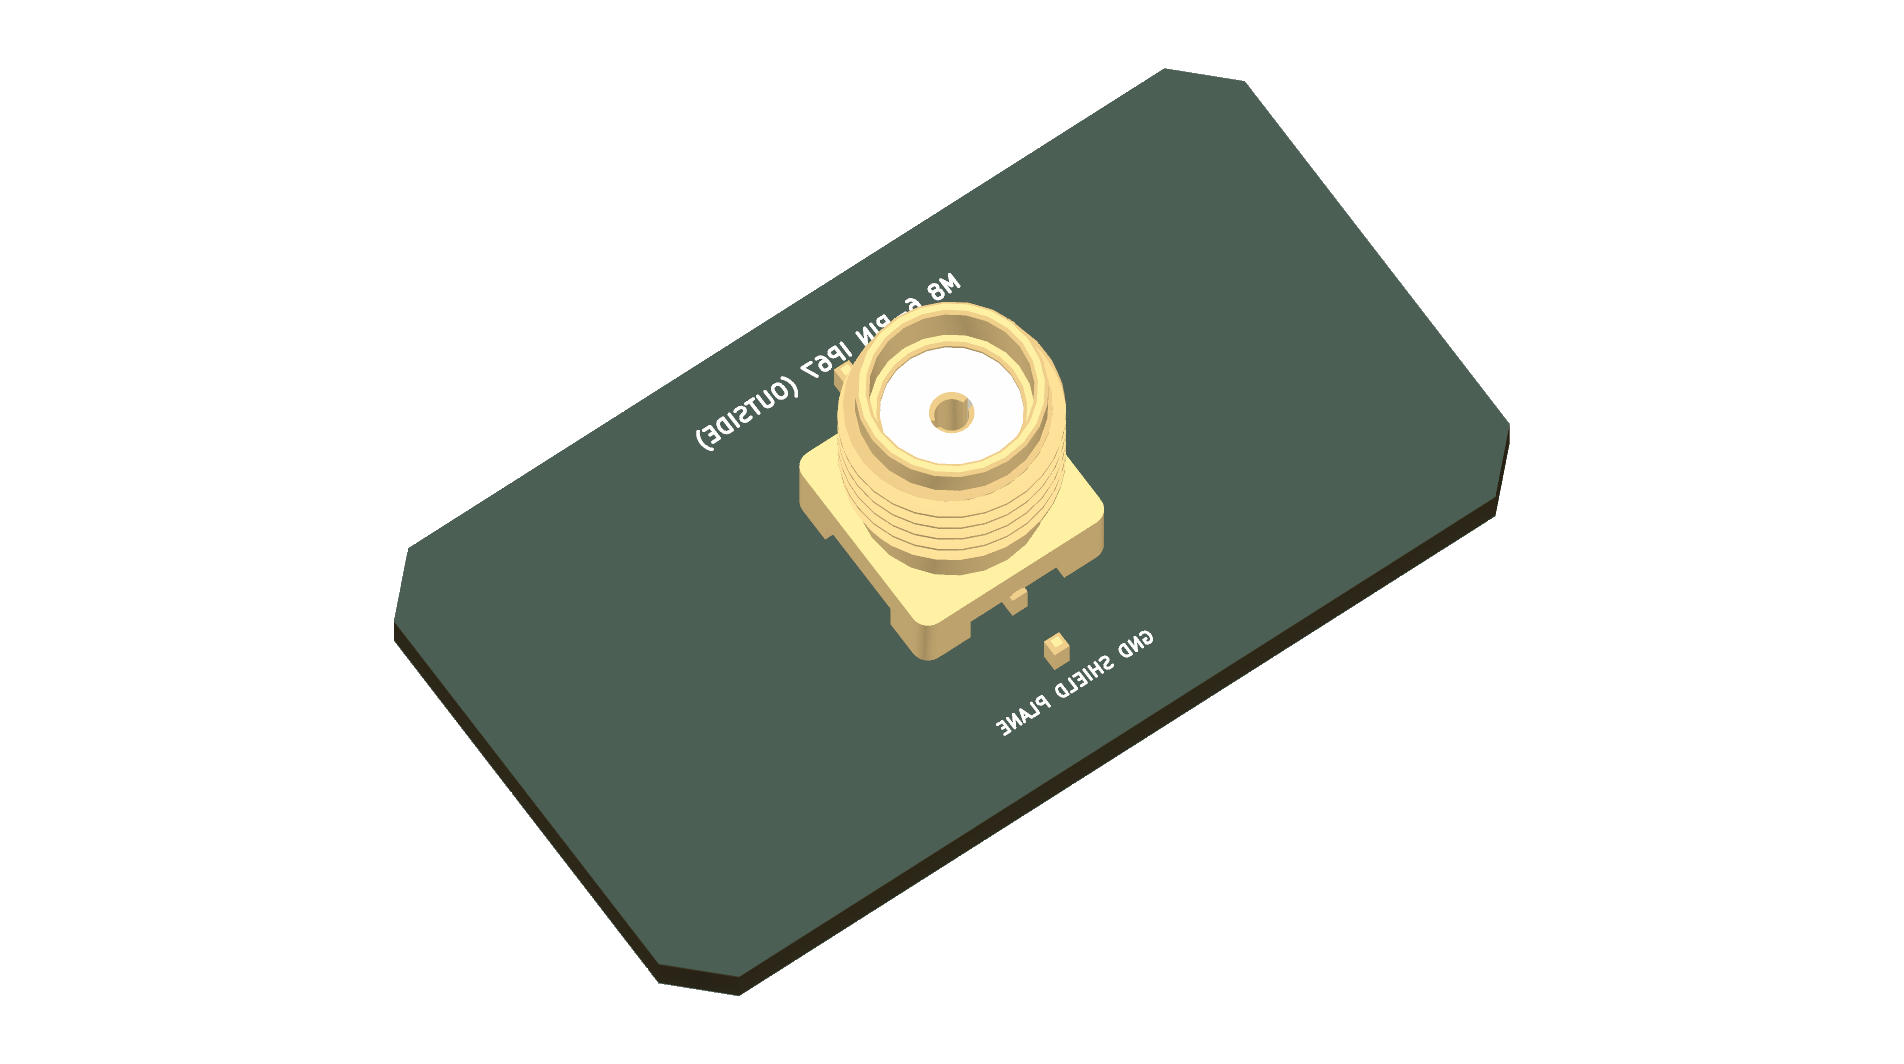
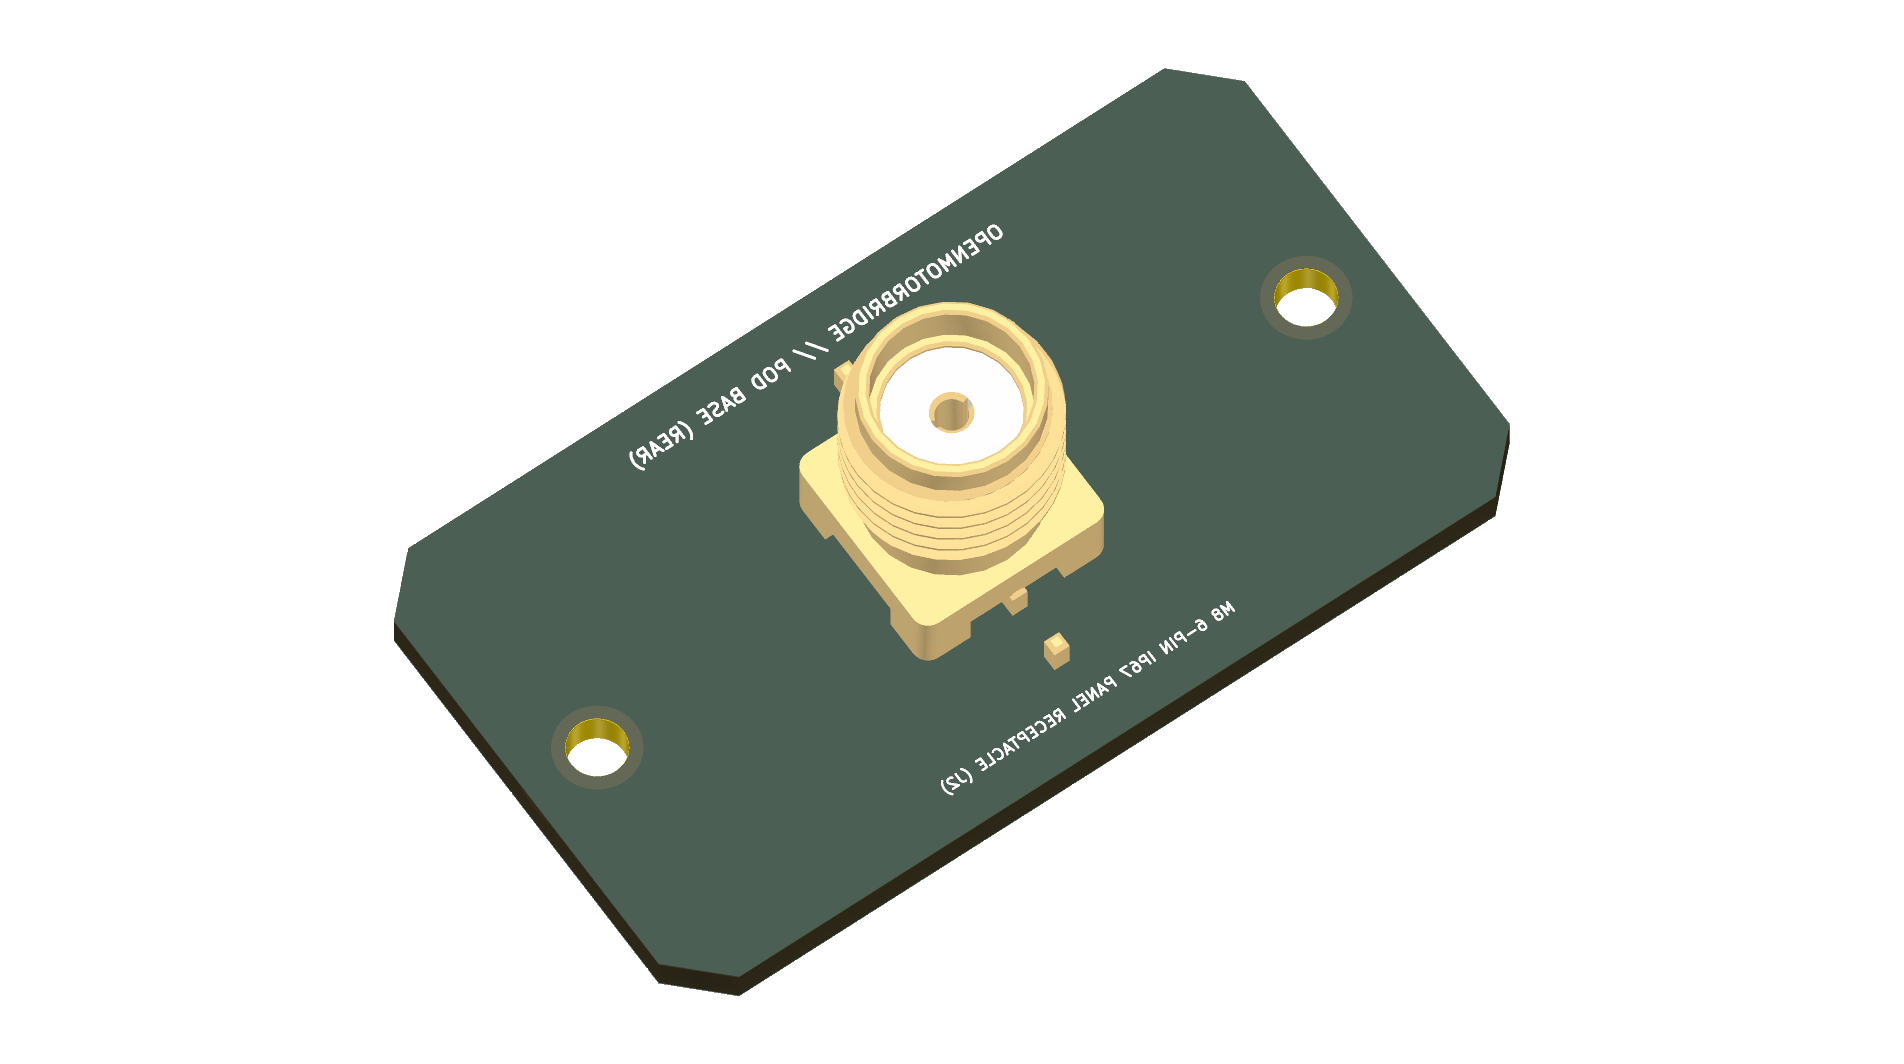
hardware(pod_base): update mounting hole drill pads and clear silkscreen annotations

diff --git a/hardware/scripts/autoplace_pod_base.py b/hardware/scripts/autoplace_pod_base.py
@@ -110,6 +110,17 @@ def generate_pod_base_pcb(pcb_path):
         fp.SetPosition(pos)
         fp.SetOrientationDegrees(rot_deg)
 
+        if ref in ['H1', 'H2']:
+            # Add physical M2 drill hole so it renders clearly in 3D
+            pad = pcbnew.PAD(fp)
+            pad.SetNumber("1")
+            pad.SetShape(pcbnew.PAD_SHAPE_CIRCLE)
+            pad.SetAttribute(pcbnew.PAD_ATTRIB_PTH)
+            pad.SetSize(pcbnew.VECTOR2I(int(3.2 * 1e6), int(3.2 * 1e6)))
+            pad.SetDrillSize(pcbnew.VECTOR2I(int(2.2 * 1e6), int(2.2 * 1e6)))
+            pad.SetLayerSet(pcbnew.LSET.AllCuMask())
+            fp.Add(pad)
+
         if ref in model_mapping:
             model_file, (rx, ry, rz), (ox, oy, oz), (sx, sy, sz) = model_mapping[ref]
             fp.Models().clear()
@@ -125,9 +136,9 @@ def generate_pod_base_pcb(pcb_path):
 
     # 3. Add Silkscreen Labels on Top (F.SilkS) and Bottom (B.SilkS)
     top_labels = [
-        ("OPENMOTORBRIDGE // POD BASE", 120.0, Y0 + 2.2, 0.55, 0.55, 0.11),
-        ("SP3012 TVS", 108.0, Y0 + 2.2, 0.40, 0.40, 0.09),
-        ("MATES TO CARTRIDGE", 108.0, Y0 + H - 2.2, 0.38, 0.38, 0.08),
+        ("OPENMOTORBRIDGE // POD BASE", 118.0, Y0 + 1.8, 0.50, 0.50, 0.10),
+        ("SP3012 TVS", 108.0, Y0 + 4.5, 0.40, 0.40, 0.08),
+        ("6-PIN STIFTLEISTE (J1 -> KASSETTE)", 118.0, Y0 + H - 1.8, 0.40, 0.40, 0.08),
     ]
 
     for text_str, x_mm, y_mm, sx, sy, th in top_labels:
@@ -141,8 +152,8 @@ def generate_pod_base_pcb(pcb_path):
         board.Add(txt)
 
     bottom_labels = [
-        ("M8 6-PIN IP67 (OUTSIDE)", X_center, Y0 + 2.5, 0.55, 0.55, 0.12),
-        ("GND SHIELD PLANE", X_center, Y0 + H - 2.5, 0.45, 0.45, 0.10),
+        ("OPENMOTORBRIDGE // POD BASE (REAR)", X_center, Y0 + 1.8, 0.50, 0.50, 0.10),
+        ("M8 6-PIN IP67 PANEL RECEPTACLE (J2)", X_center, Y0 + H - 1.8, 0.40, 0.40, 0.08),
     ]
 
     for text_str, x_mm, y_mm, sx, sy, th in bottom_labels:
